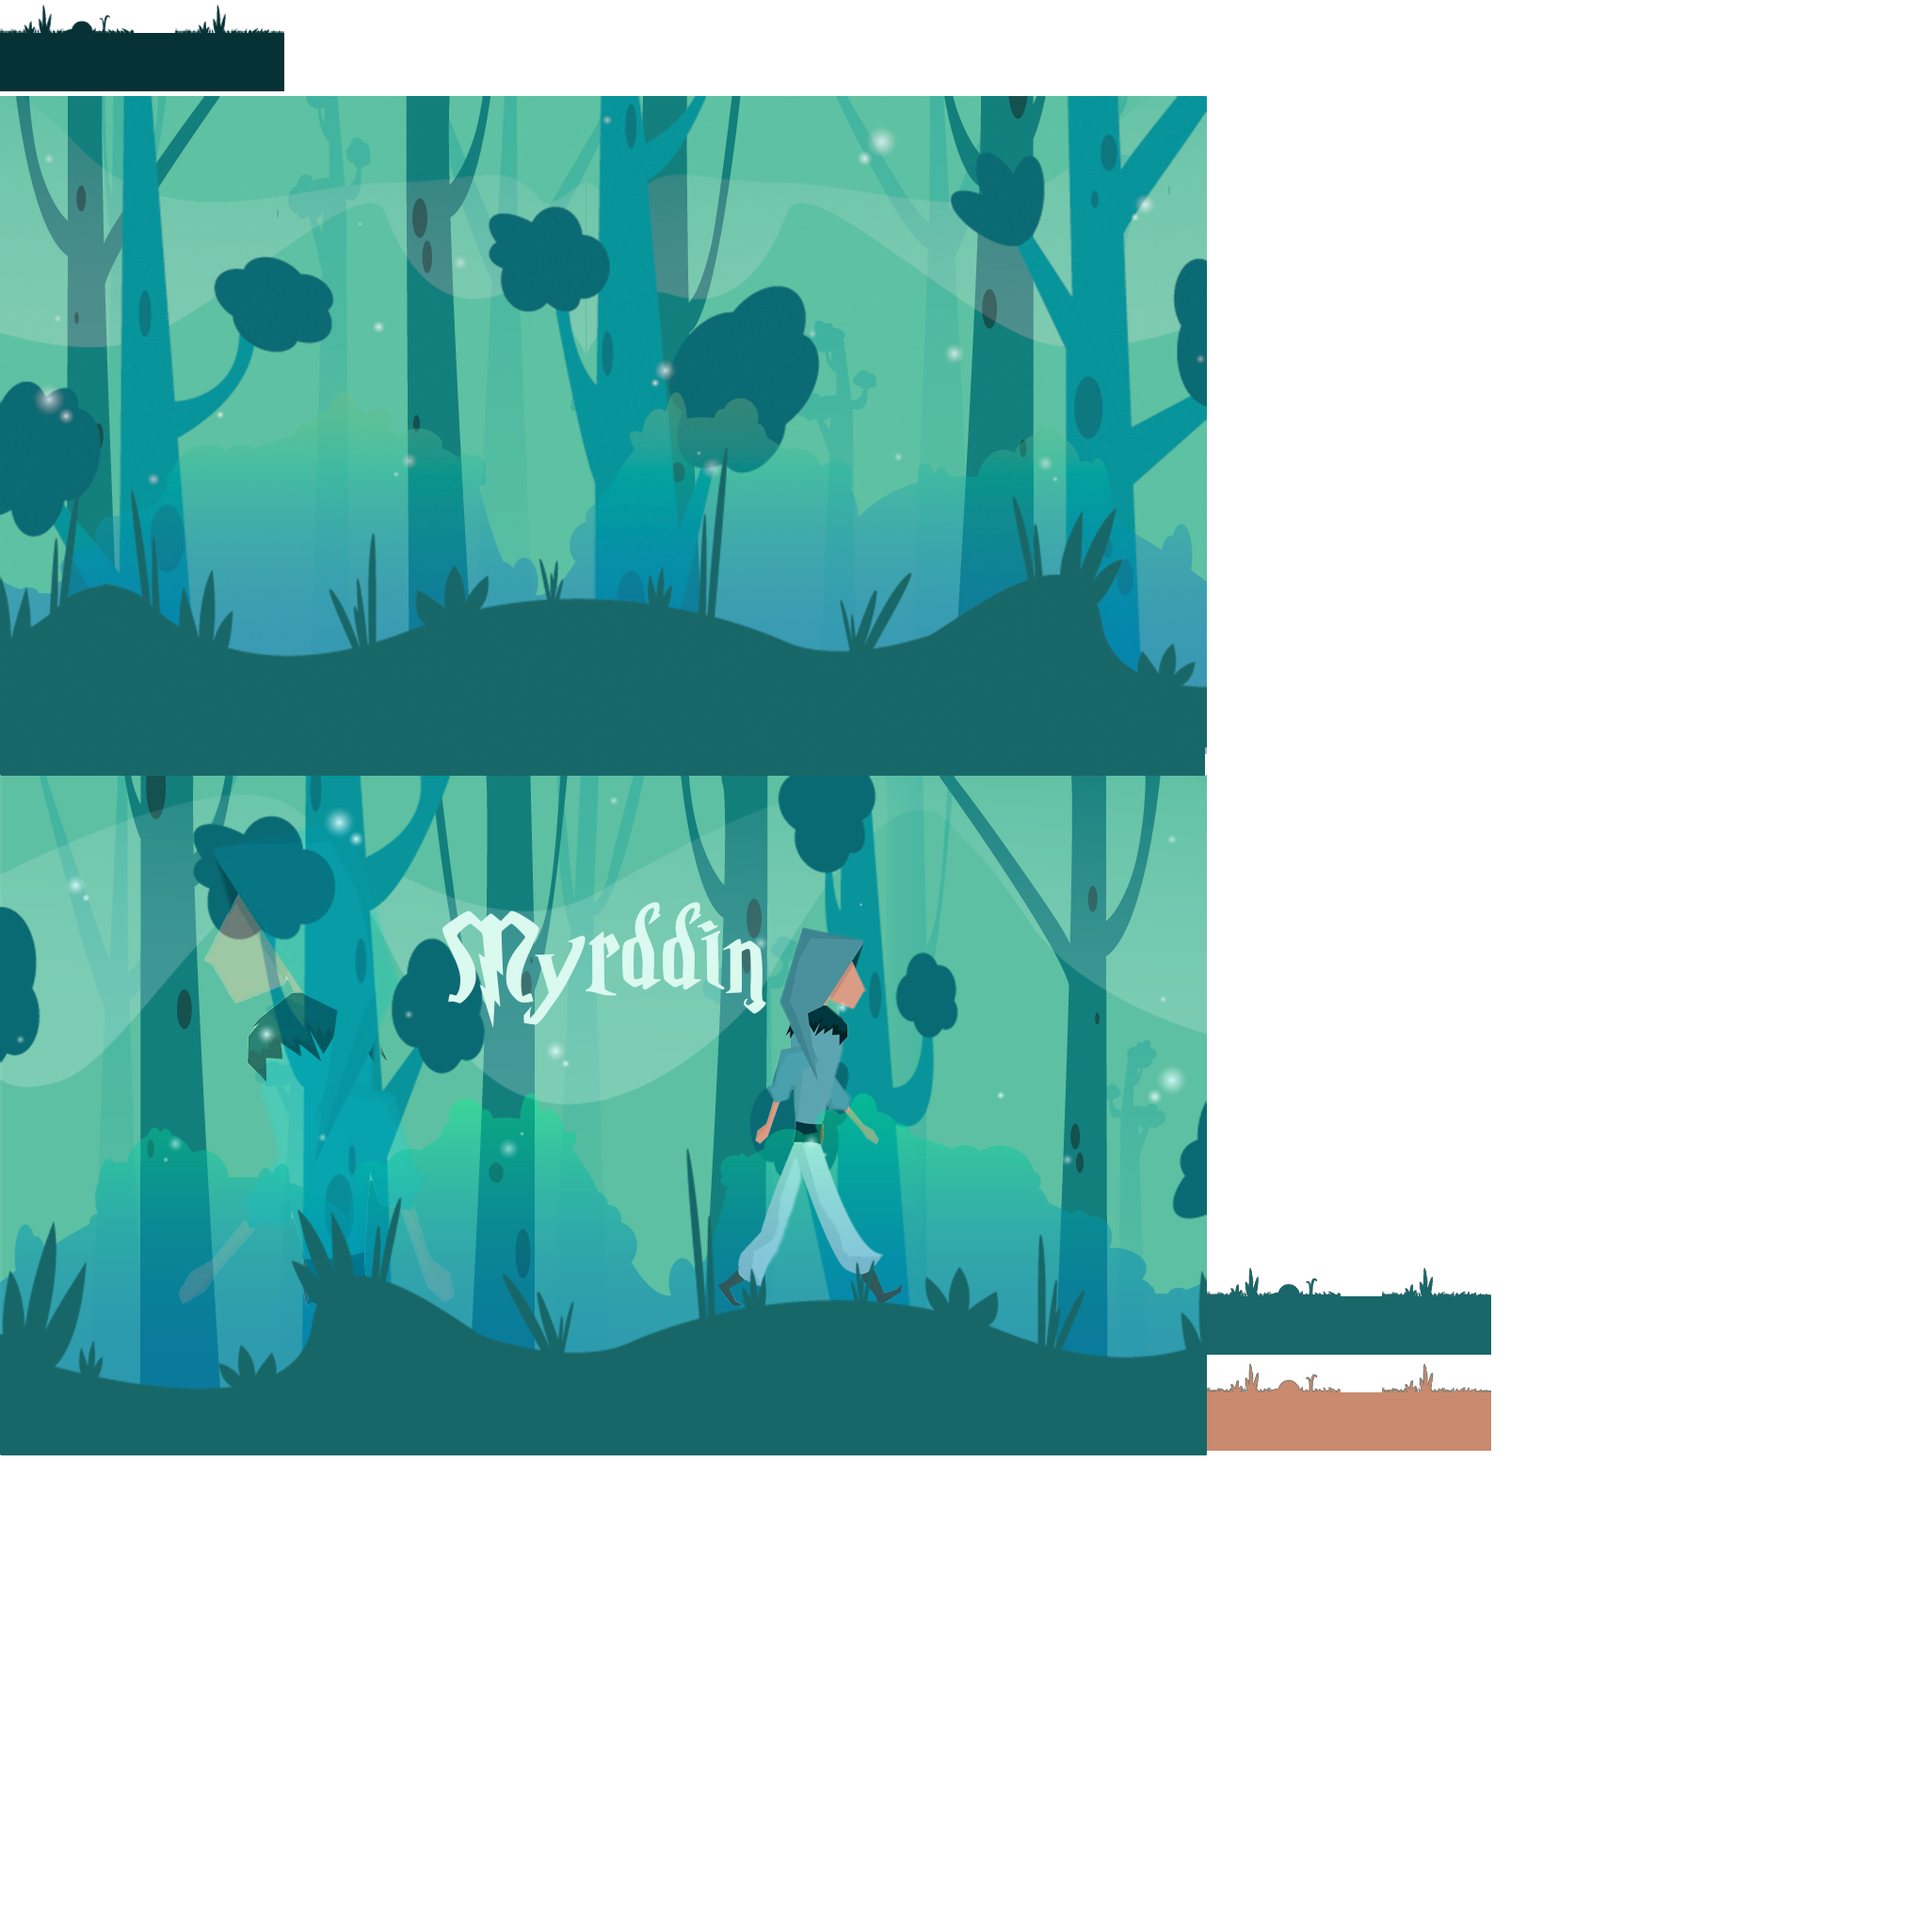
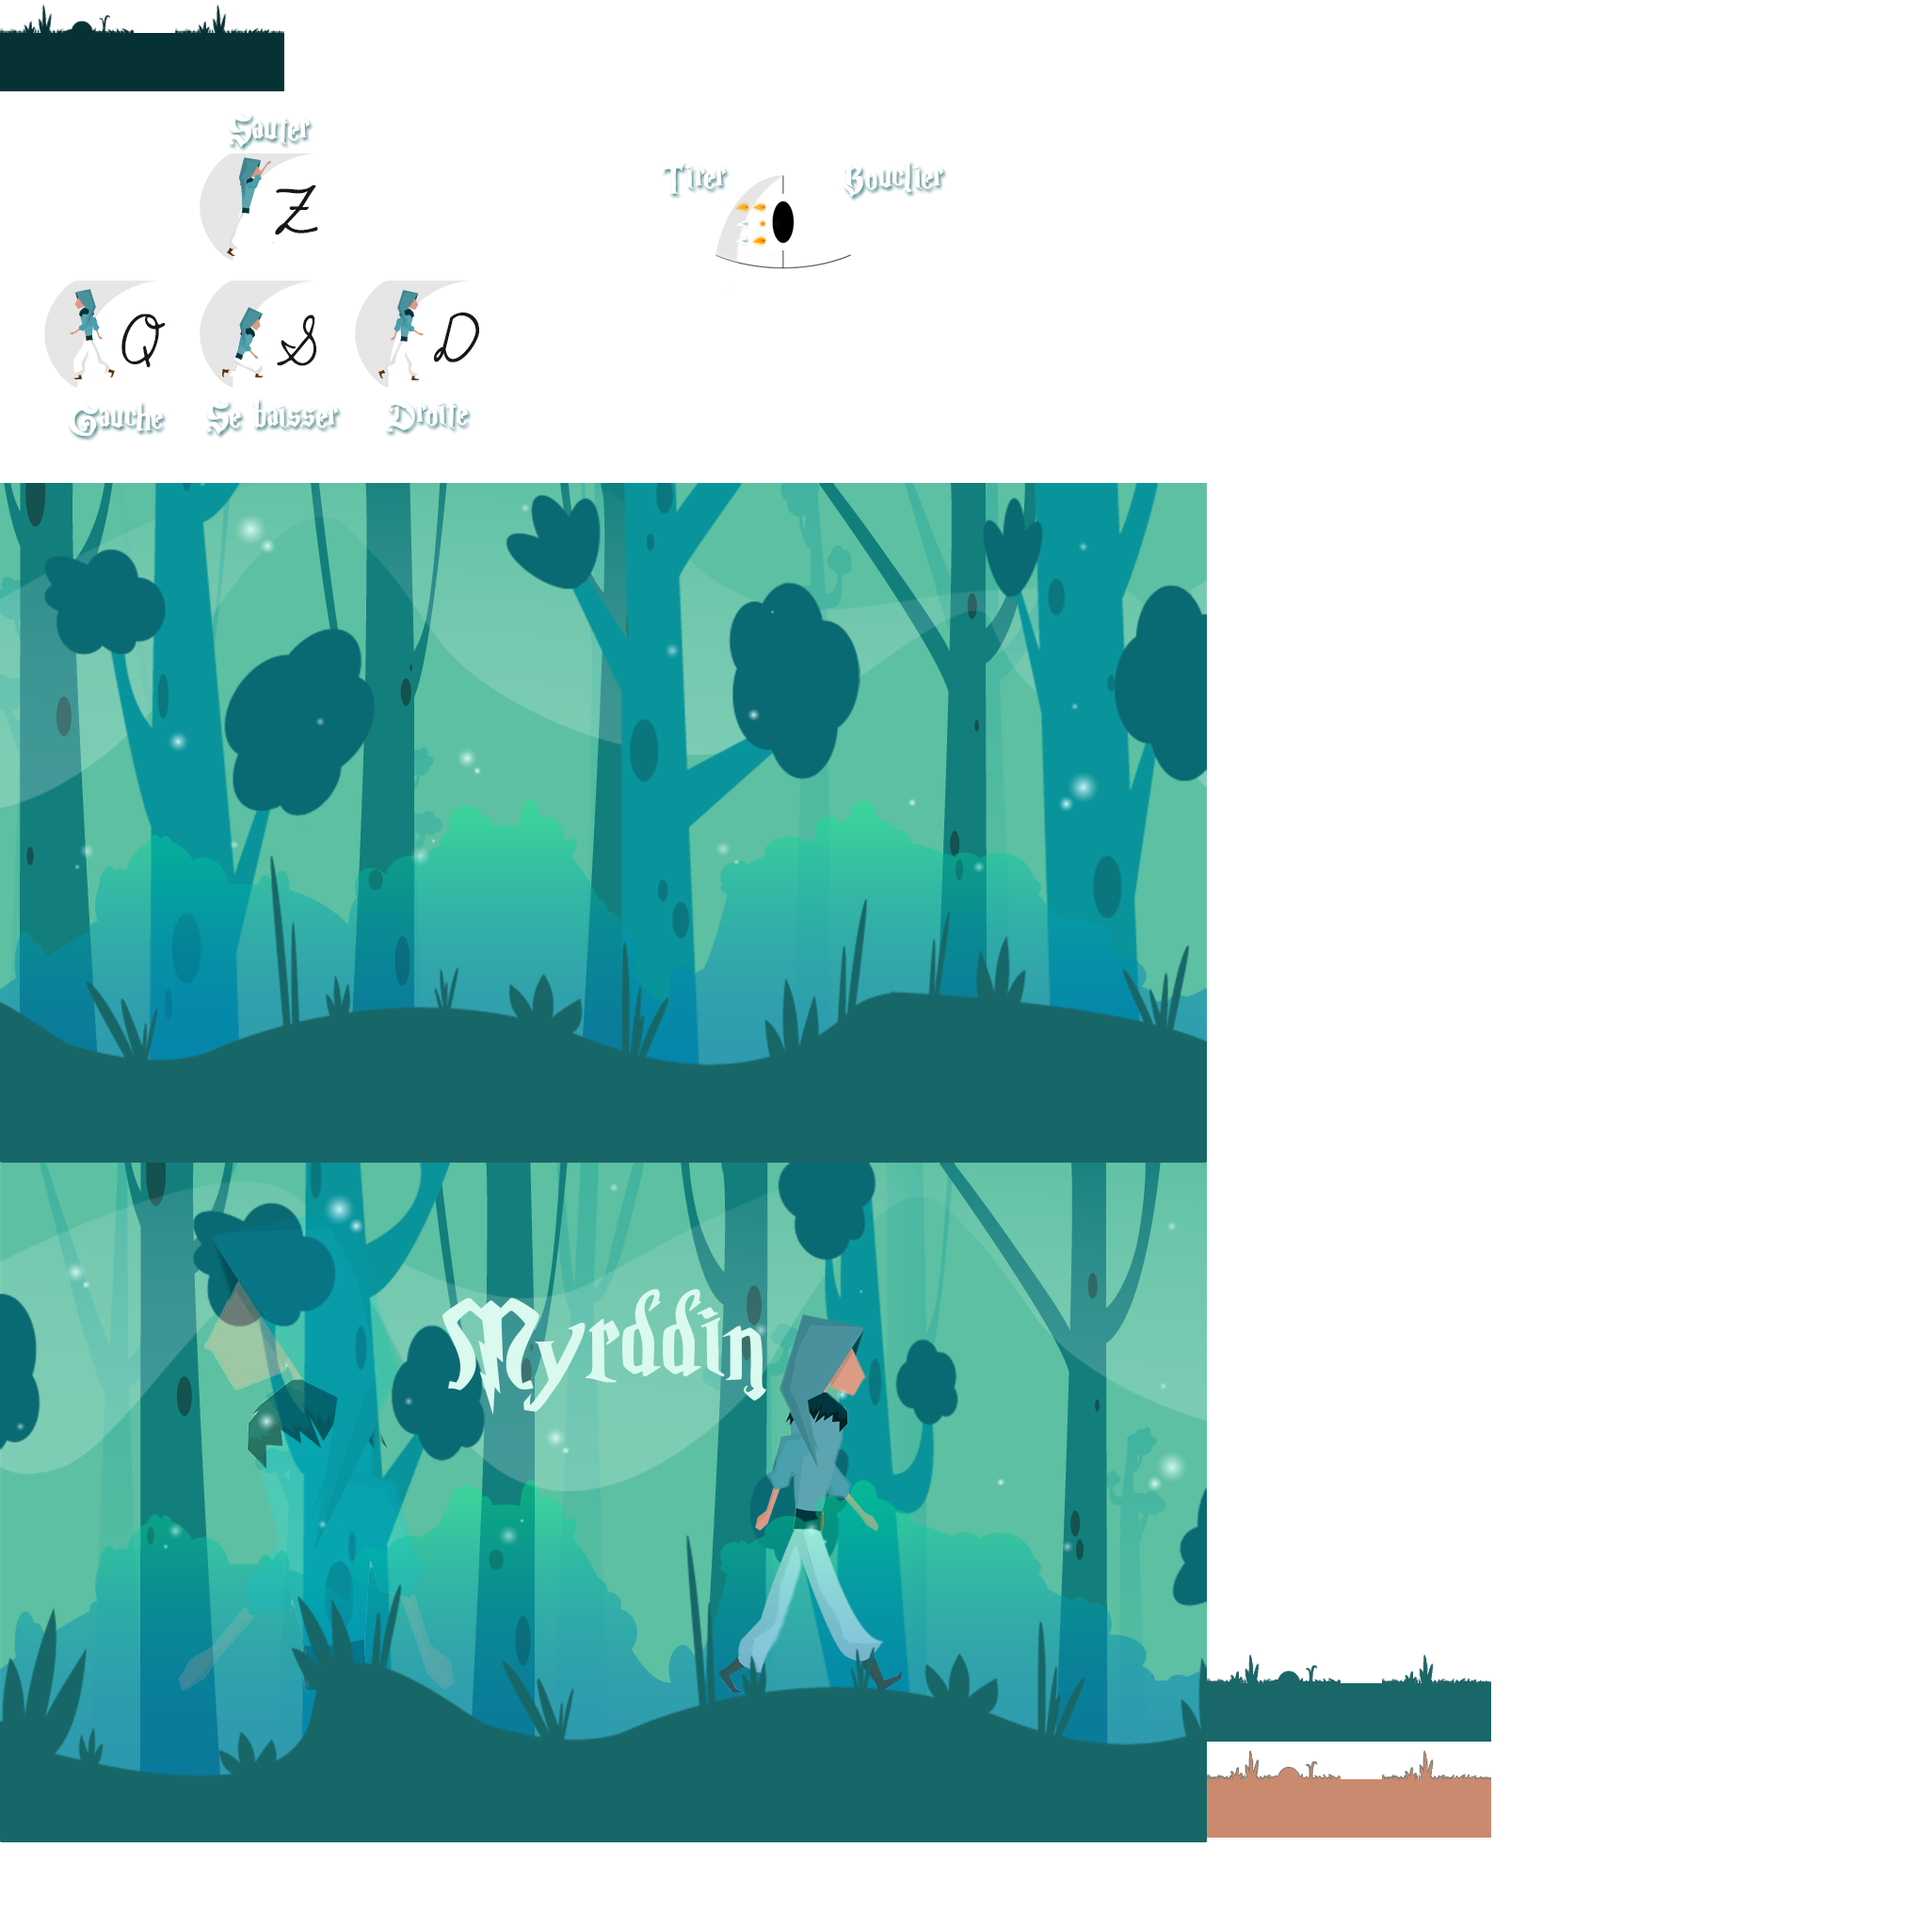
ajout du menu comment jouer

diff --git a/core/src/fr/imac/myrddin/menu/MenuScreen.java b/core/src/fr/imac/myrddin/menu/MenuScreen.java
@@ -14,6 +14,7 @@ import com.badlogic.gdx.graphics.g2d.TextureAtlas.AtlasRegion;
 import com.badlogic.gdx.graphics.glutils.ShapeRenderer;
 import com.badlogic.gdx.scenes.scene2d.Actor;
 import com.badlogic.gdx.scenes.scene2d.Stage;
+import com.badlogic.gdx.scenes.scene2d.ui.Image;
 import com.badlogic.gdx.scenes.scene2d.ui.Table;
 import com.badlogic.gdx.scenes.scene2d.ui.TextButton;
 import com.badlogic.gdx.scenes.scene2d.ui.TextButton.TextButtonStyle;
@@ -97,6 +98,20 @@ public class MenuScreen extends Stage implements Screen {
 		
 		table.row();
 		
+		//add how to play button
+		TextButton textButtonHow = new TextButton("Comment jouer", this.mainTextButtonStyle);
+		textButtonHow.addListener(new ChangeListener() {
+			
+			@Override
+			public void changed(ChangeEvent event, Actor actor) {
+				initHowToPlayMenu();
+				
+			}
+		});
+		table.add(textButtonHow);
+		
+		table.row();
+		
 		//add quit button
 		TextButton textButtonQuit = new TextButton("Quitter", this.mainTextButtonStyle);
 		textButtonQuit.addListener(new ChangeListener() {
@@ -161,6 +176,37 @@ public class MenuScreen extends Stage implements Screen {
 		});
 		table.add(textButtonReturn);
 	}
+	
+	//screen to choose a level
+		private void initHowToPlayMenu() {
+			//clear screen
+			table.reset();
+			
+			//do debug
+			//table.setDebug(true);
+			
+			//background image
+			AtlasRegion backgroundMenuLevel = atlasMenu.findRegion("menu3");
+			table.background(new TextureRegionDrawable(backgroundMenuLevel));
+			
+			//add how to play image
+			AtlasRegion howToPlayImage = atlasMenu.findRegion("t_jouer");
+			Image howToPlay = new Image(howToPlayImage);
+			table.add(howToPlay);
+			table.row();
+			
+			//add return button
+			TextButton textButtonReturn = new TextButton("Retour au menu", this.mainTextButtonStyle);
+			textButtonReturn.addListener(new ChangeListener() {
+								
+				@Override
+				public void changed(ChangeEvent event, Actor actor) {
+					initMainMenu();
+								
+				}
+			});
+			table.add(textButtonReturn);
+		}
 	
 	//count number of files in a repertory
 	public int getHandles() {
